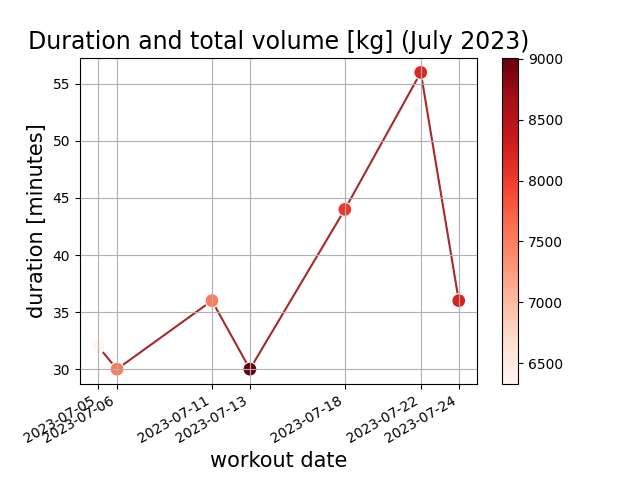
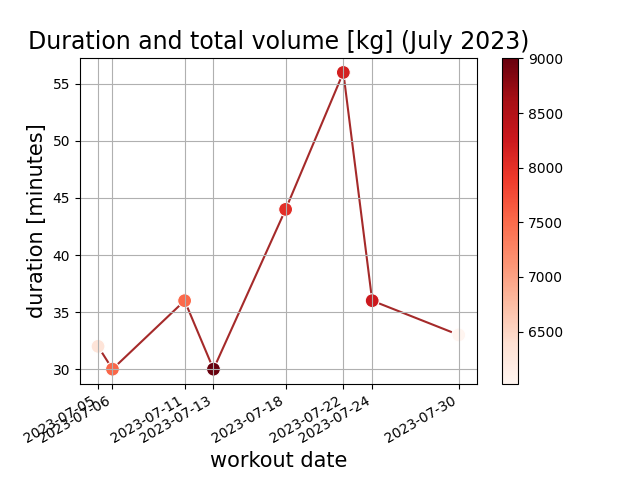
chore: add today's workout

diff --git a/src/combined_metrics/combined_metrics.py b/src/combined_metrics/combined_metrics.py
@@ -83,11 +83,15 @@ def plot_frequency(table):
     plt.clf()
 
 
-def plot_duration(table, year_to_plot, month_to_plot):
+def plot_duration(table, year_to_plot: str, month_to_plot: str) -> None:
     """_summary_
 
     :param table: _description_
     :type table: _type_
+    :param year_to_plot: _description_
+    :type year_to_plot: str
+    :param month_to_plot: _description_
+    :type month_to_plot: str
     """
 
     _date_and_duration = get_all_durations()
